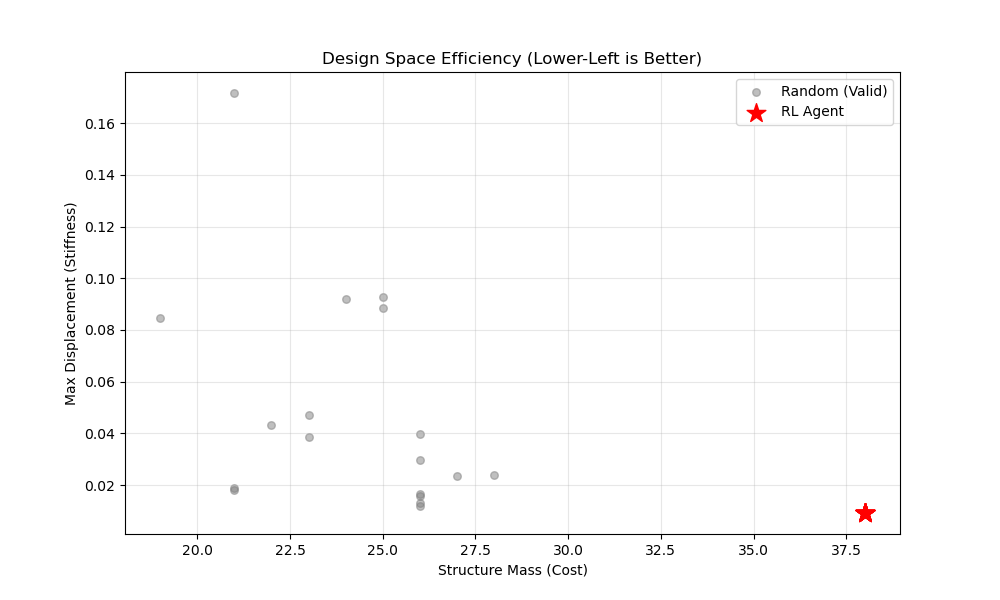
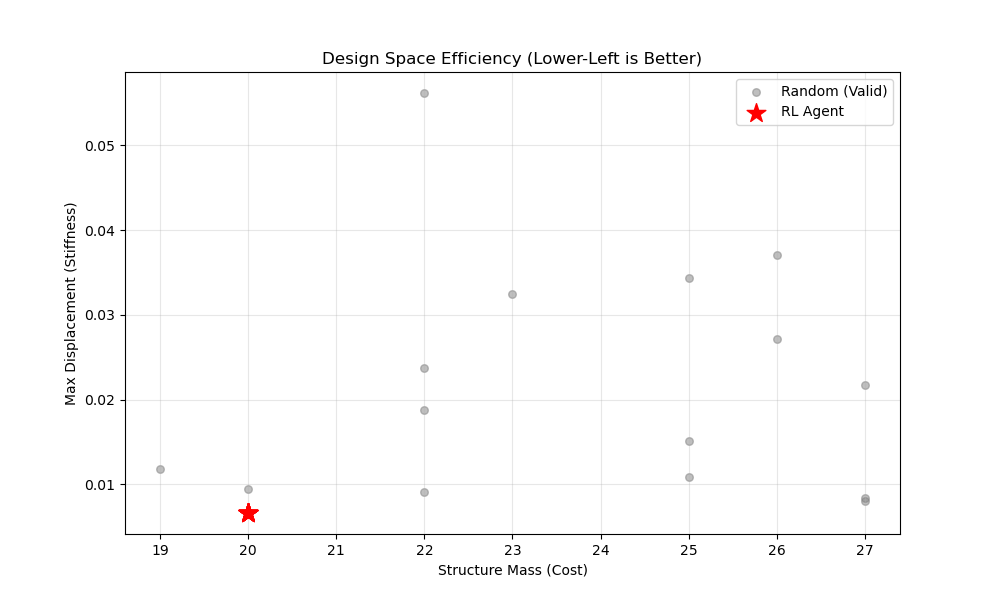
final commit

diff --git a/README.md b/README.md
@@ -7,7 +7,7 @@ Truss topology optimization involves determining the optimal arrangement of trus
 
 I hope for this agent to navigate the combinational landscape of discrete search space (binary add/remove members, for a grid with N possible connections, the search space is 2^N) and discontinuous reward function (small changes in topology can lead to large changes in performance), and ultimately discover efficient structural forms, such as triangulation or arches, without being explicitly programmed with engineering rules.
 
-(Like the Cook's Membrane project, I also encountered many challenges in this project. I still carry the PTSD from the volumetric locking I experienced there. I realized the distinct difficulty of a priori machine learning compared to the more traditional posteriori supervised learning. Despite the challenges, I am still really interested in the a priori approach, so I did this project to further explore it.)
+(Like the Cook's Membrane project, I also encountered many challenges in this project. I still carry the PTSD from the volumetric locking I experienced there. I realized the distinct difficulty of a priori machine learning compared to the more traditional posteriori supervised learning (what I learned before taking this course). Despite the challenges, I am still really interested in the a priori approach, so I did this project to further explore it.)
 
 ## 2. Stack and Design
 #### Physics Engine: ```anastruct```
@@ -198,21 +198,15 @@ Final Model Structure:
     </a>
 </p>
 
-The best model structure and the final model structure are very different, and the best model structure is the original grid with no bars removed. This indicates 1. that the agent has not fully converged after the 2000 episodes of training duration I set, and 2. that the penalty weight for displacement compared to the penalty weight for material cost is too high, causing the agent to focus on stability over material efficiency.
+The best model structure and the final model structure similar but different. This indicates that the agent has not fully converged after the 2000 episodes of training. There are some traits of an arch structure, but the model has not fully optimized yet.
 
-However, in the snapshots, we can see that the agent is capable of learning arch-like structures with triangulation and symmetry. Given more time and better penalty weights/hyperparameter tuning, the model would likely converge to an efficient arch structure.
+In snapshot 13 (highest scoring snapshot), we can see that the agent is capable of learning arch-like structures with triangulation and symmetry. Given more time and better penalty weights/hyperparameter tuning, the model would likely converge to a more efficient arch structure.
 
-Snapshots:
+Snapshot 13:
 <p align="center">
     <a href="https://github.com/kunlun-wu/truss_topo_rl">
-        <img src="https://raw.githubusercontent.com/kunlun-wu/truss_topo_rl/main/results/variation_hard_results/snapshots/snapshot3.png">
+        <img src="https://raw.githubusercontent.com/kunlun-wu/truss_topo_rl/main/results/variation_hard_results/snapshots/snapshot13.png">
     </a>
-</p>
-<p align="center">
-    <a href="https://github.com/kunlun-wu/truss_topo_rl">
-        <img src="https://raw.githubusercontent.com/kunlun-wu/truss_topo_rl/main/results/variation_hard_results/snapshots/snapshot4.png">
-    </a>
-</p>
 
 Evaluations:
 <p align="center">
@@ -221,7 +215,7 @@ Evaluations:
     </a>
 </p>
 
-For the score distribution, we can see the agent predicted model is scoring on the lower end of the valid structures from random search. The reason is as discussed above.
+For the score distribution, we can see the agent predicted model is scoring on the top end of the valid structures from random search.
 
 <p align="center">
     <a href="https://github.com/kunlun-wu/truss_topo_rl">
